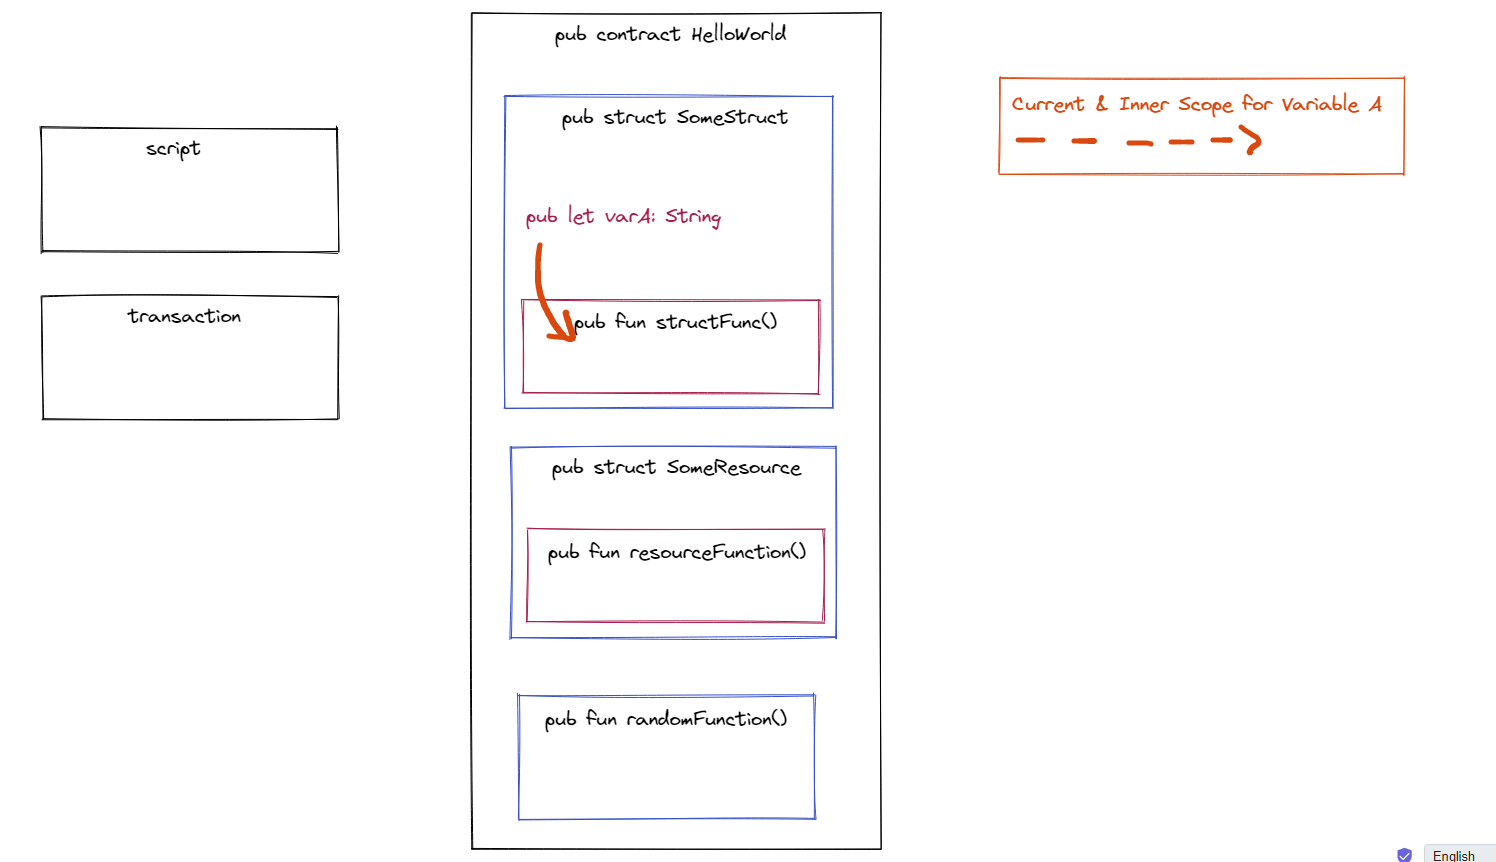
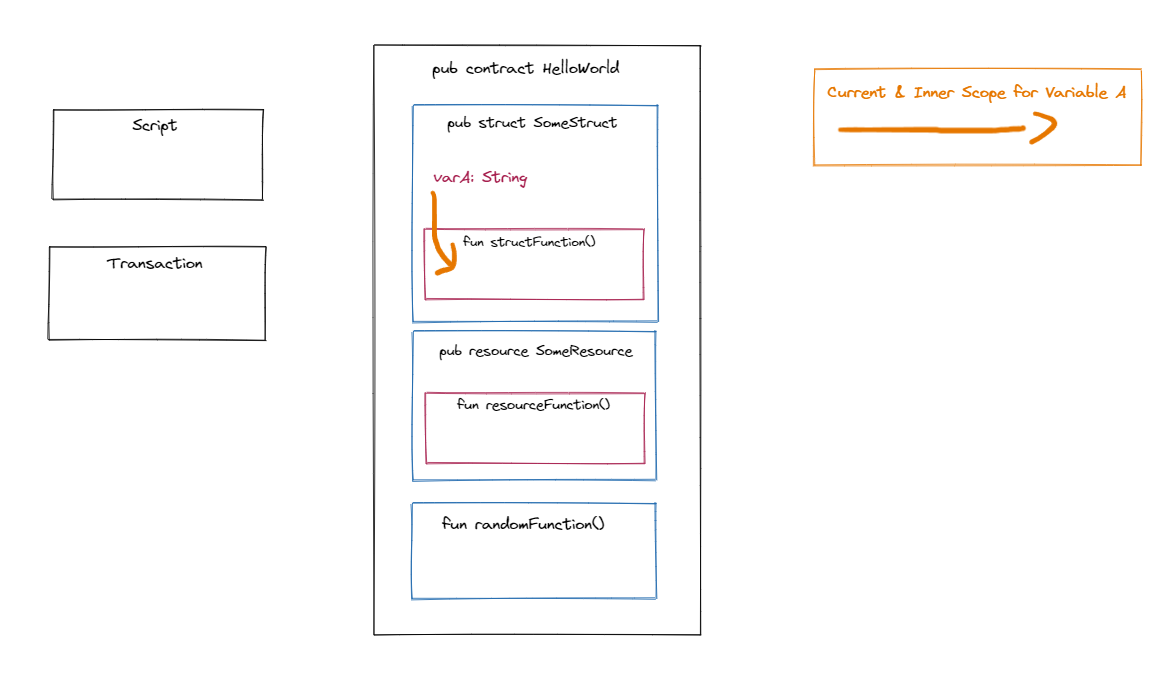
update scope pictures

diff --git a/src/lib/content/courses/beginner-cadence/en/chapter3/lesson5.md b/src/lib/content/courses/beginner-cadence/en/chapter3/lesson5.md
@@ -63,6 +63,8 @@ This means we can access our thing anywhere inside the contract that it is defin
 
 ### 4. Account Scope
 
+<img src="/courses/beginner-cadence/accountscope.PNG" />
+
 This means we can access our thing anywhere inside the account that it is defined. This means all of the contracts that are in the account. Remember: we can deploy multiple contracts to one account.
 
 ## Back to Access Modifiers
